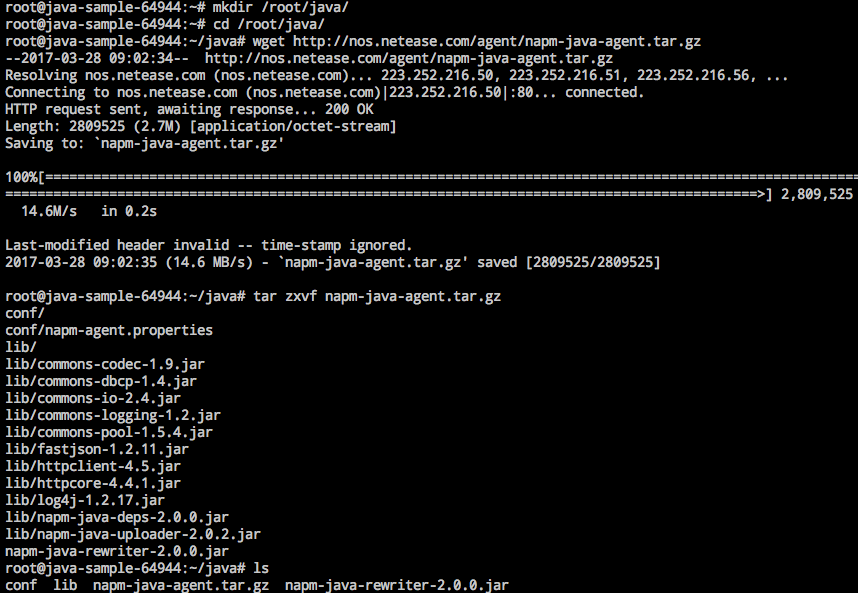
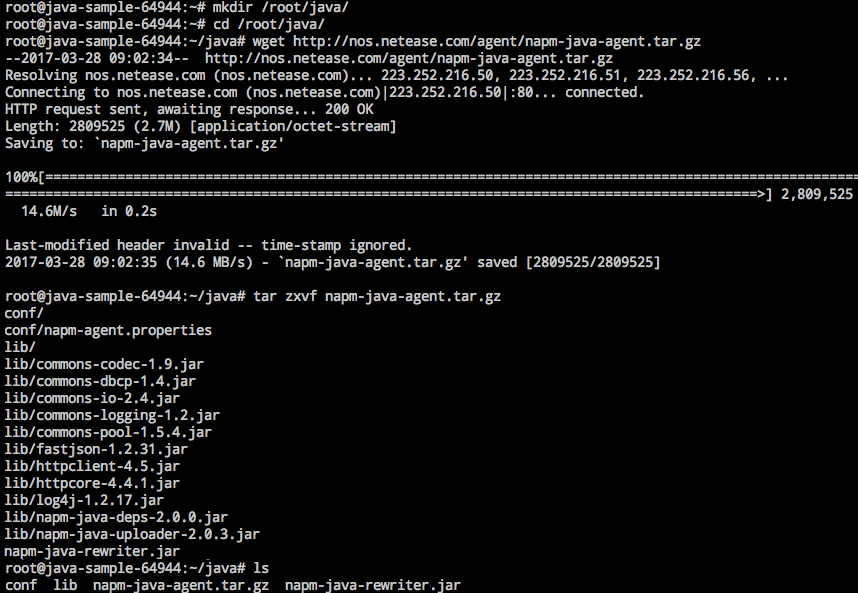
Feature:性能监控java探针更新

Changed region(s): [[0.0, 0.516, 0.303, 0.941], [0.4848, 0.9713, 0.6061, 1.0]]

diff --git a/运维工具/性能监控/性能监控使用指南/部署探针/部署Java探针.md b/运维工具/性能监控/性能监控使用指南/部署探针/部署Java探针.md
@@ -21,7 +21,7 @@
 
 ### 1.2. 增加 Java 启动参数
 
-以 Tomcat8 为例，修改 `/taomcat8/bin/catalina.sh` 脚本，在 JAVA_OPTS 内添加 `-javaagent:<user_agent_dir>/napm-java-rewriter-2.0.0.jar` 启动参数。
+以 Tomcat8 为例，修改 `/taomcat8/bin/catalina.sh` 脚本，在 JAVA_OPTS 内添加 `-javaagent:<user_agent_dir>/napm-java-rewriter.jar` 启动参数。
 
 ![](../../image/性能监控使用指南-部署Java探针-增加启动参数.png)
 
@@ -52,7 +52,7 @@
 
 ### 2.2. 修改启动脚本
 
-建议将启动脚本复制一份放到项目中（或放到桶里），修改启动脚本，添加参数 `--java-agent:<user_agent_dir>/napm-java-rewriter-2.0.0.jar`
+建议将启动脚本复制一份放到项目中（或放到桶里），修改启动脚本，添加参数 `--java-agent:<user_agent_dir>/napm-java-rewriter.jar`
 
 ### 2.3. Dockerfile 中 ADD 脚本
 
